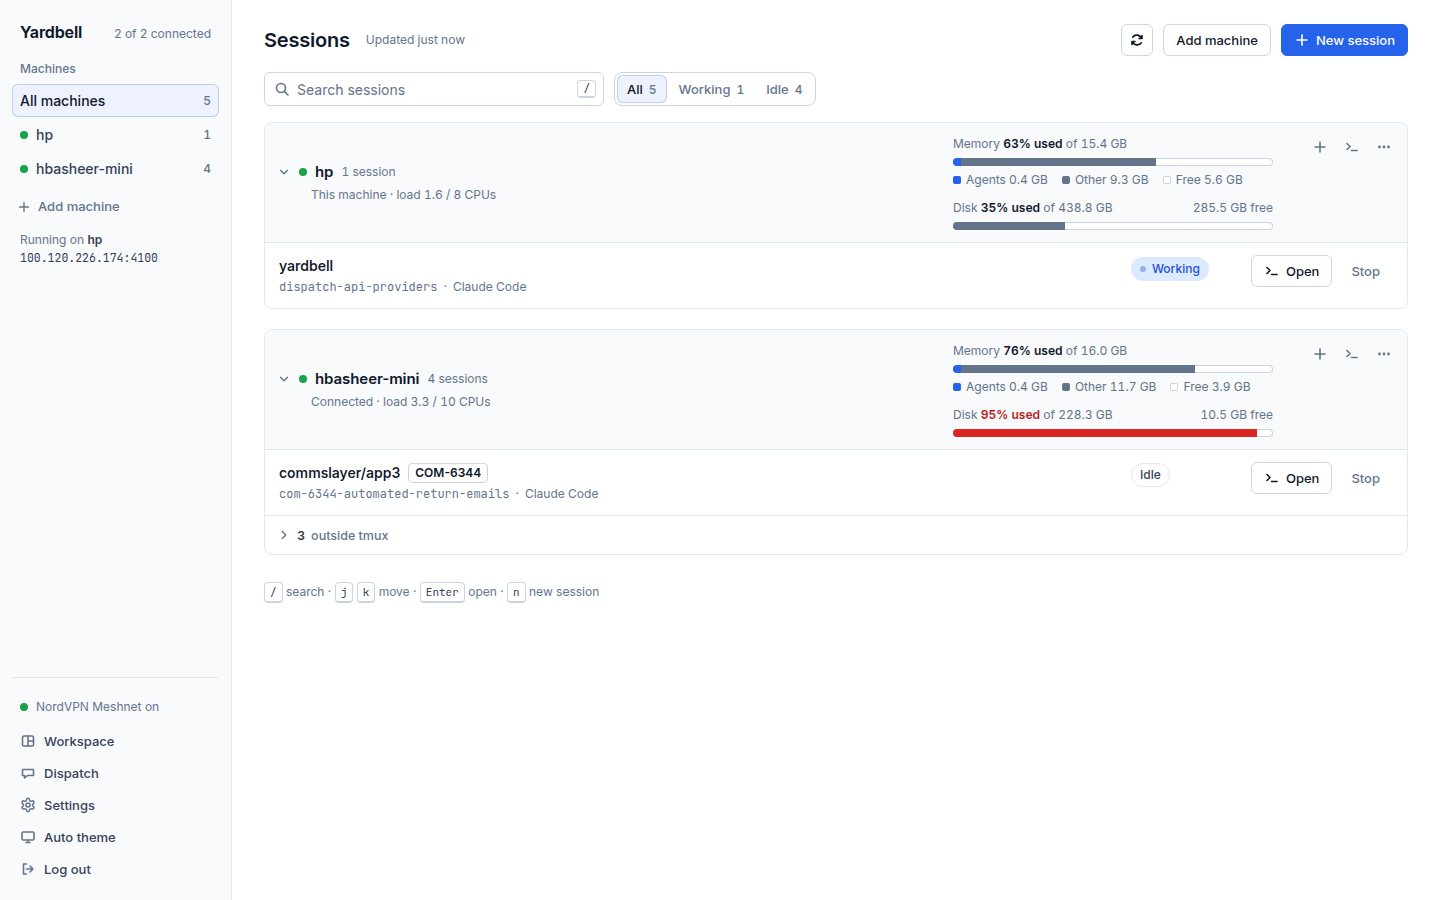
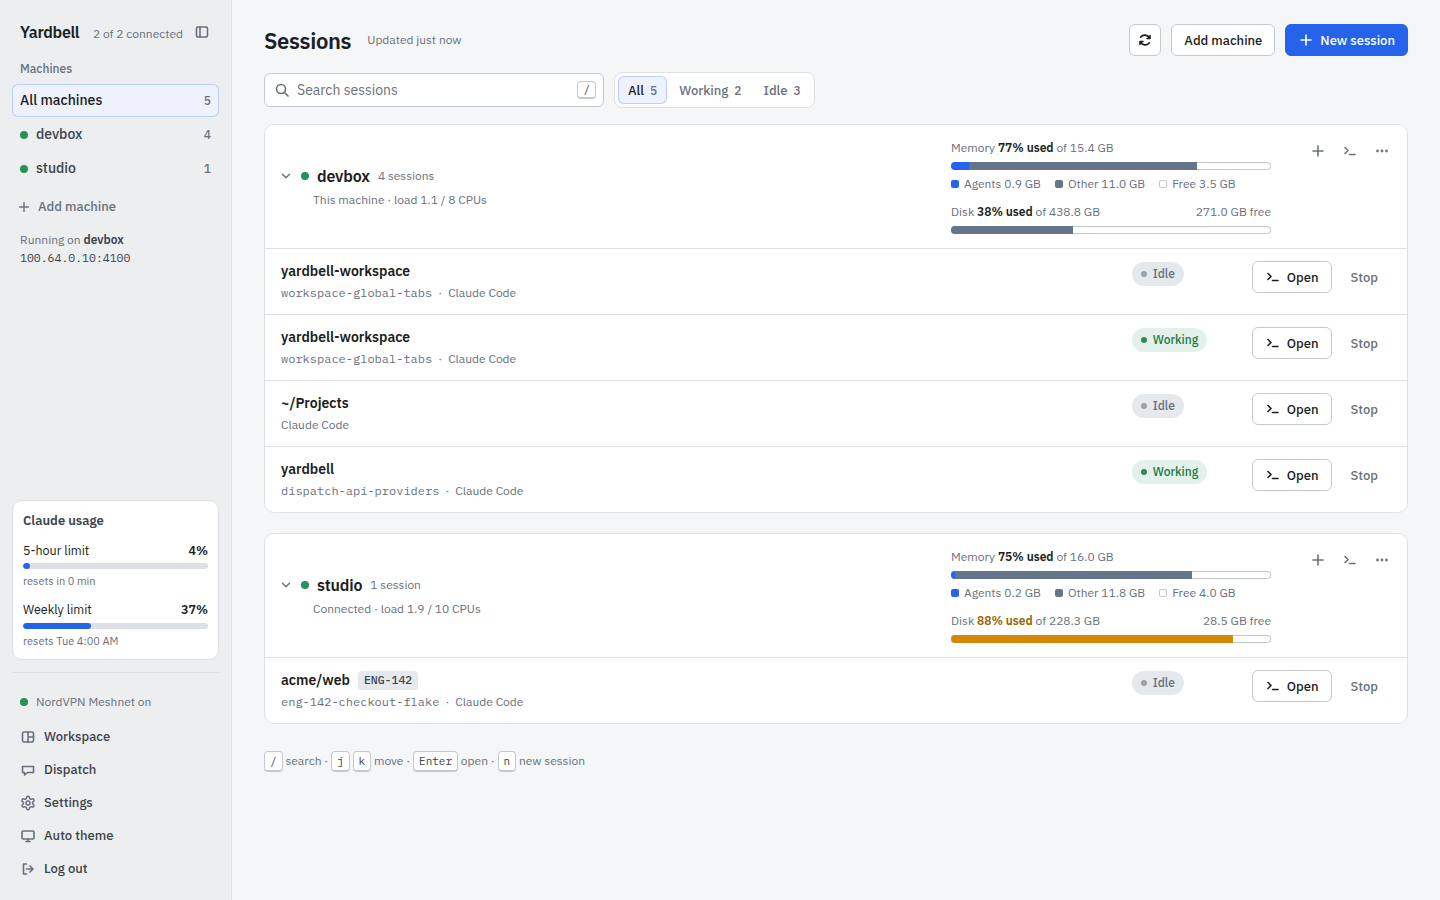
Retake the screenshots with demo machines, names and addresses

diff --git a/CHANGELOG.md b/CHANGELOG.md
@@ -64,7 +64,7 @@ and the project uses [Semantic Versioning](https://semver.org).
   desktop app on its Connect screen, so signing in takes only the passcode. The phone remembers
   every server it has seen, also after you remove one. Servers answer `/app/hello` and list the
   others at `/app/servers`.
-- Every page says where the server runs, for example "Running on hp 100.120.226.174:4000".
+- Every page says where the server runs, for example "Running on devbox 100.64.0.10:4000".
 - Light and dark theme: a button in every sidebar, and Settings → Appearance, saved per device.
   The desktop app's window and tab bar and the Android app's status bar follow it.
 - Workspace: a new tab opens the same New session dialog as the dashboard, closing a tab with
